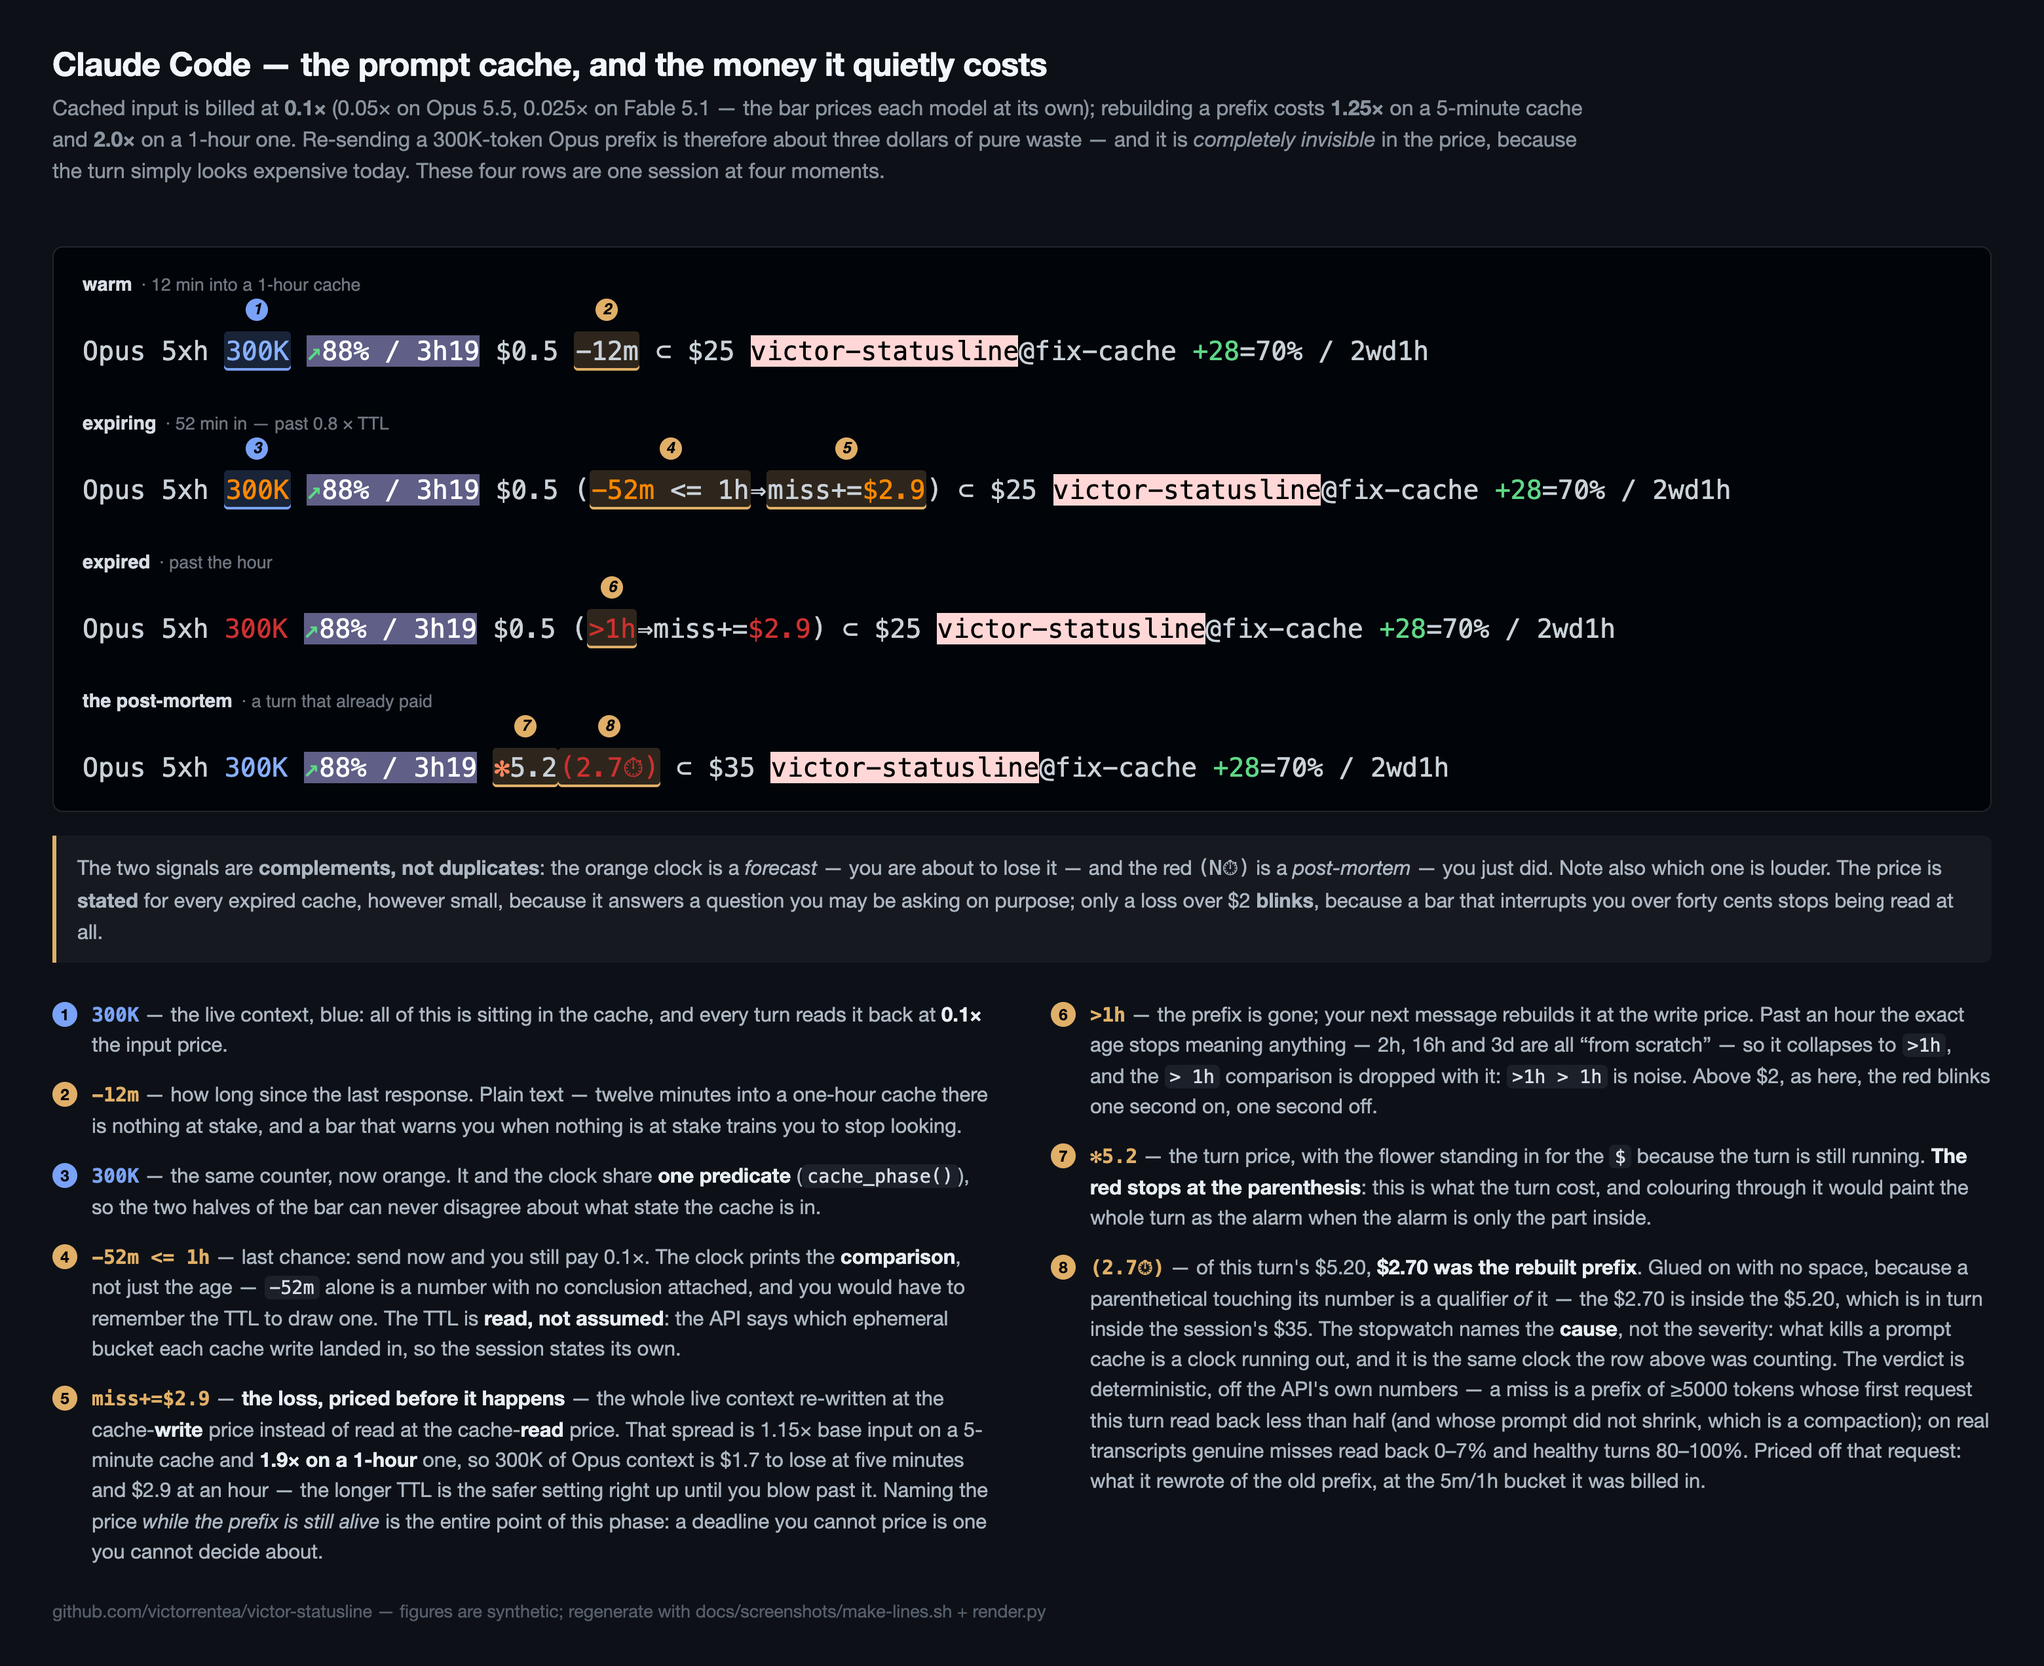
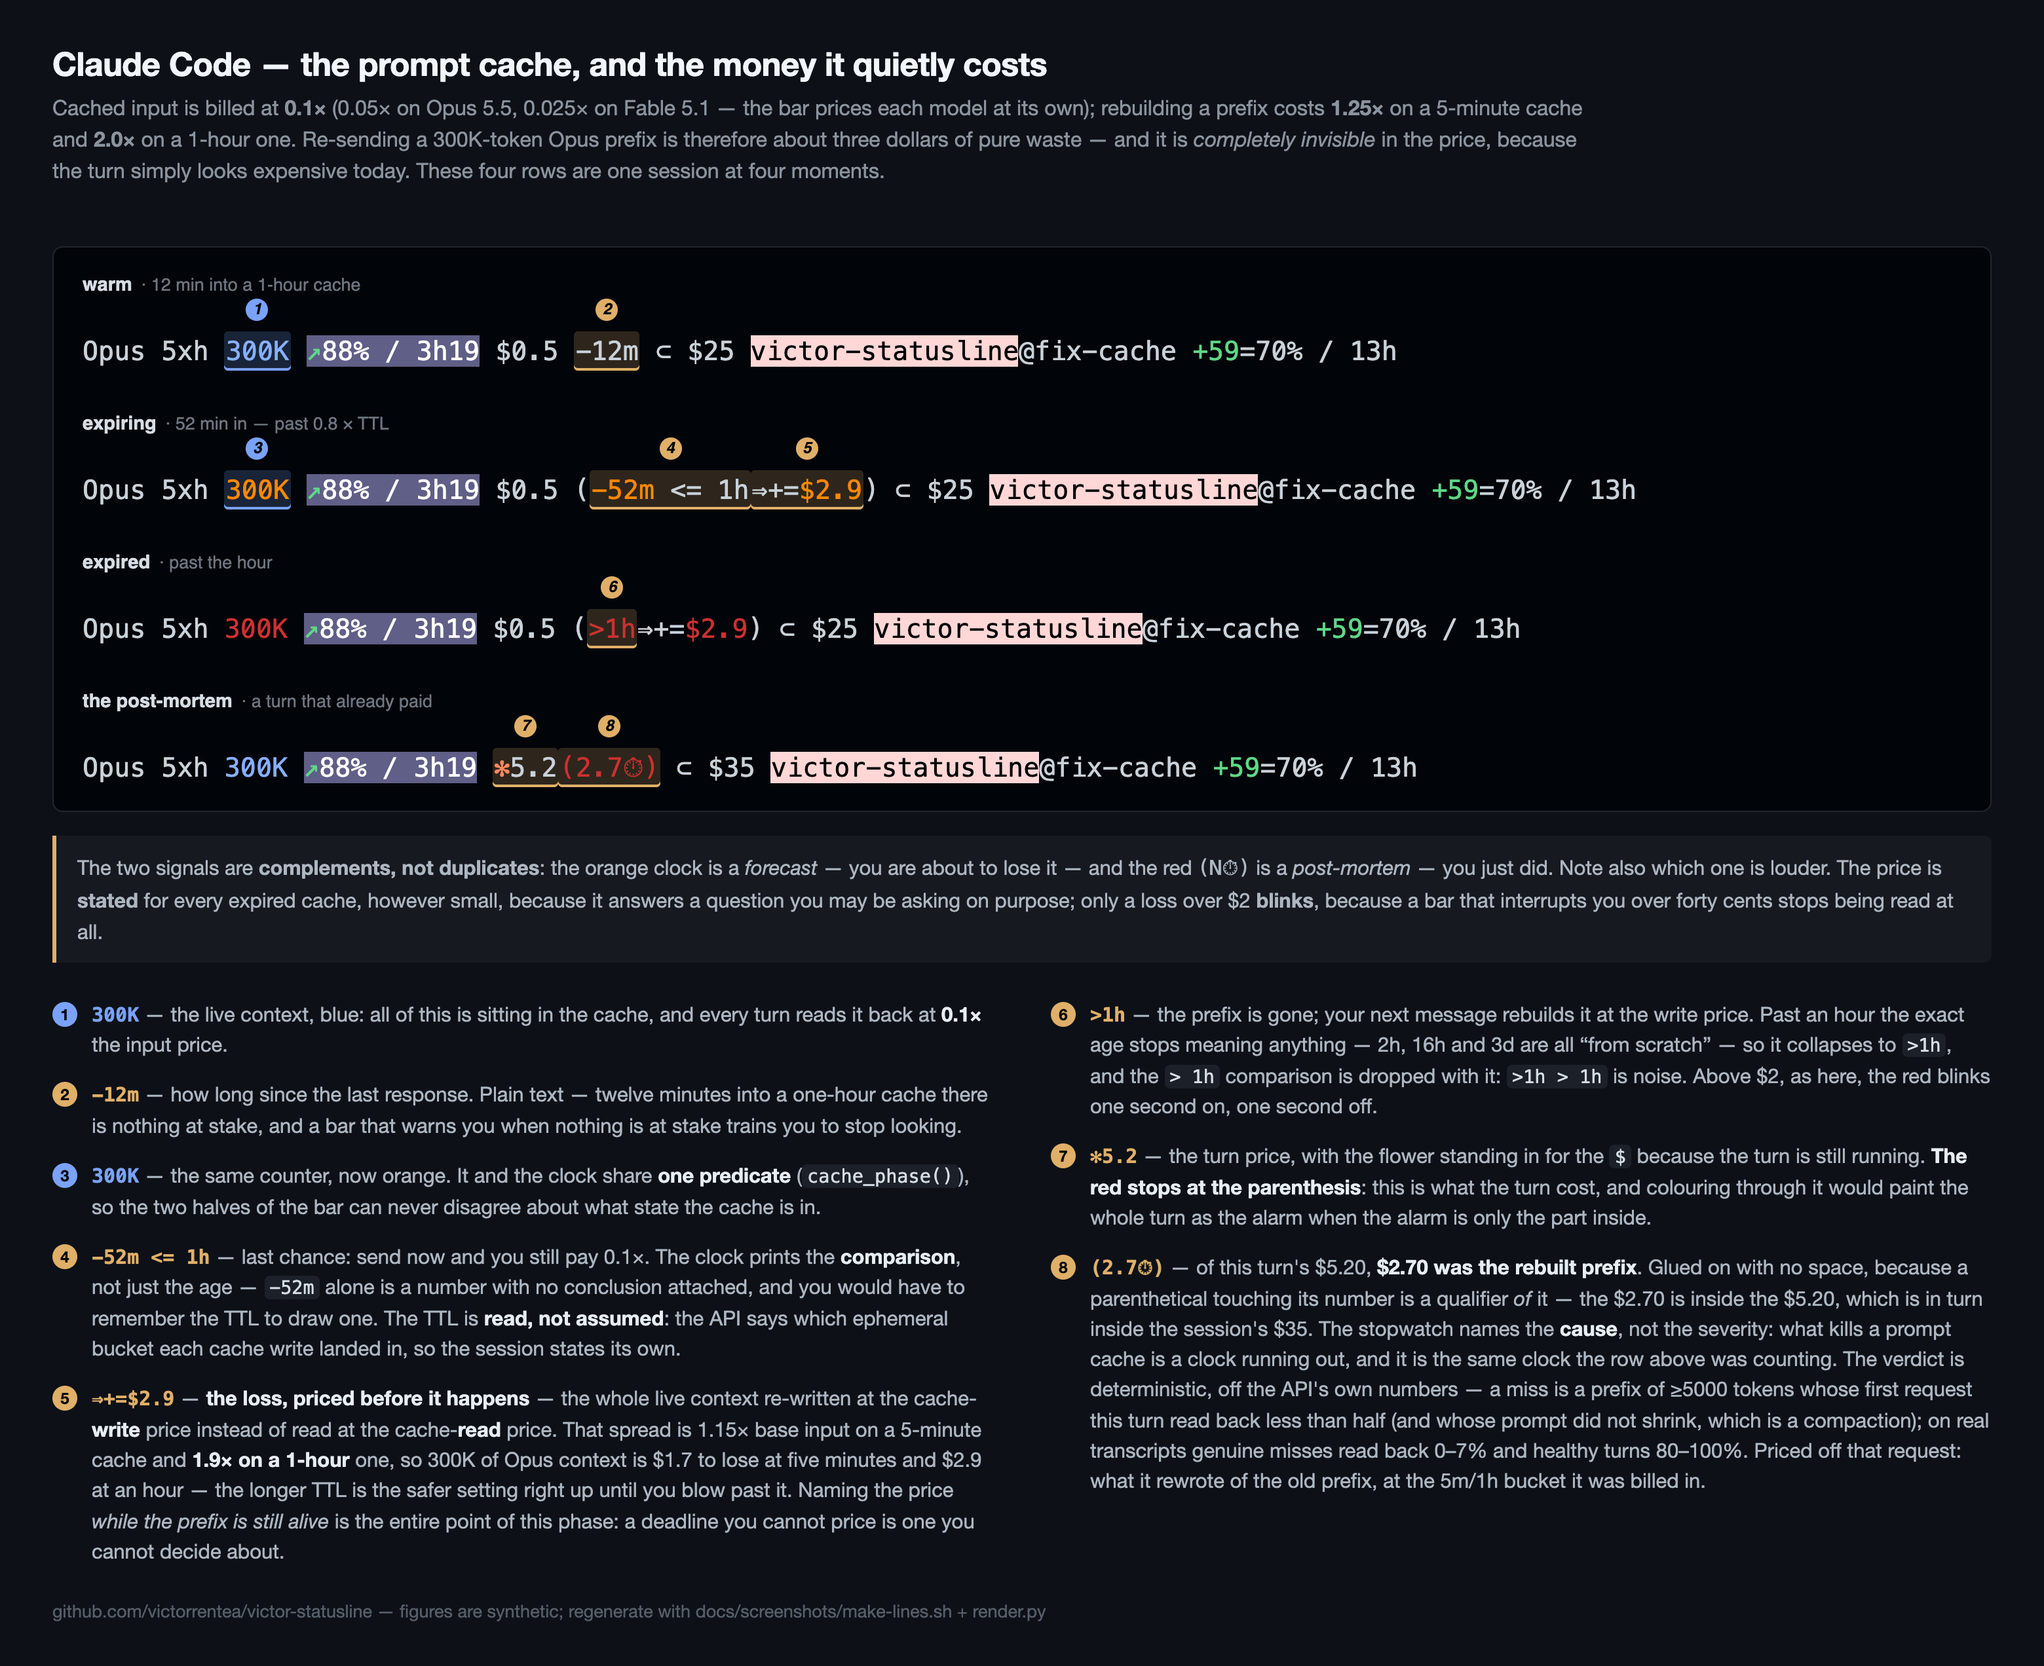
Cache clock: drop the word "miss" from (>1h⇒miss+=$…)
The age past the TTL, the arrow and the added price already say it; the word
only widened the clause. Tests, render regex, doc and screenshots follow.

diff --git a/docs/screenshots/render.py b/docs/screenshots/render.py
@@ -267,7 +267,7 @@ SPECS = [
                       "remember the TTL to draw one. The TTL is <b>read, not assumed</b>: "
                       "the API says which ephemeral bucket each cache write landed in, "
                       "so the session states its own."),
-                     (r"miss\+=\$[\d.]+", "spend",
+                     (r"⇒\+=\$[\d.]+", "spend",
                       "<b>the loss, priced before it happens</b> — the whole live "
                       "context re-written at the cache-<b>write</b> price instead of "
                       "read at the cache-<b>read</b> price. That spread is 1.15× base "

diff --git a/claude/victor-claude-statusline.md b/claude/victor-claude-statusline.md
@@ -55,14 +55,14 @@ Idle long enough that the prompt cache is gone. The loss is priced either way;
 what changes with the amount is whether it moves. Below $2 it just sits there:
 
 ```
-Opus 5h 170K | ↑87% / 1h41 | $7.8 (>1h⇒miss+=$1.6) ⊂ $10 | ai | +15=82% / 3wd8h
+Opus 5h 170K | ↑87% / 1h41 | $7.8 (>1h⇒+=$1.6) ⊂ $10 | ai | +15=82% / 3wd8h
 ```
 
 Above $2, `220K`, `>1h` and `$2.1` **blink red** in unison, one second on, one
 second off (§1.1); everything else holds still:
 
 ```
-Opus 5h 220K | ↑87% / 1h42 | $1.5 (>1h⇒miss+=$2.1) ⊂ $23 | ai | +15=82% / 3wd8h
+Opus 5h 220K | ↑87% / 1h42 | $1.5 (>1h⇒+=$2.1) ⊂ $23 | ai | +15=82% / 3wd8h
 ```
 
 Five-hour quota nearly exhausted and confirmed by the account: `quota-gate.sh`
@@ -207,7 +207,7 @@ priority order:
 | it is **about to expire** (idle ≥ 0.8 × TTL) | orange / normal |
 | context is simply **enormous** (> 300K tokens) | red, **static** — on Opus/Fable **orange** > 300K, red only **≥ 650K** |
 
-The first two **also blink the `-N` clock and its `miss+=$…` price**, in the
+The first two **also blink the `-N` clock and its `+=$…` price**, in the
 same colour on the same beat, and that pairing is the entire point: the clock
 says how much time the cache has left, the token count says how much that cache
 is *worth*, and the price says it in money. Each alone answers a fraction of "is
@@ -235,15 +235,15 @@ Two deliberate choices:
   terminal's own contrast instead of white-on-dark-red, and on the off-beat the
   text is simply *normal* — fully legible half the time by construction, so the
   figure never has to be read through the alarm.
-- **Only the variables blink.** In `(-51m > 5m⇒miss+=$1.7)`, the parts that
-  move are `-51m` and `$1.7`. The scaffolding around them (`> 5m`, `⇒miss+=`)
+- **Only the variables blink.** In `(-51m > 5m⇒+=$1.7)`, the parts that
+  move are `-51m` and `$1.7`. The scaffolding around them (`> 5m`, `⇒+=`)
   says how to read those two figures and holds still; blinking it too
   just widened the flashing block into a bar of moving text you had to wait out.
 
 ### Reporting and alarming are two different thresholds
 
 The **price is always reported**. Every expired or expiring cache prints its
-`(…⇒miss+=$…)`, at any size, because that figure answers a question you may be
+`(…⇒+=$…)`, at any size, because that figure answers a question you may be
 asking on purpose — *what did stepping away just cost me?* — and a number
 withheld below an arbitrary line makes the bar useless for checking.
 
@@ -252,15 +252,15 @@ would cost more than **$2** (`CLAUDE_MISS_FLOOR` to change it). So a cheap miss
 sits there in plain text and a dear one starts moving:
 
 ```
-… | $7.8 (>1h⇒miss+=$1.4) ⊂ $10 | …    ← states the loss, stays still
-… | $7.8 (>1h⇒miss+=$2.1) ⊂ $10 | …    ← ">1h" and "$2.1" blink red
+… | $7.8 (>1h⇒+=$1.4) ⊂ $10 | …    ← states the loss, stays still
+… | $7.8 (>1h⇒+=$2.1) ⊂ $10 | …    ← ">1h" and "$2.1" blink red
 ```
 
 The alarm threshold used to be a flat 100K tokens, which is the wrong unit: what
 makes a miss worth interrupting you over is the **money**, and the same 100K on a
 1h TTL is ~19c of Haiku and ~78c of Opus 5.5. It is the *same* figure the bar is
 already printing, so the rule explains itself on screen — you see a blinking
-`⇒miss+=$2.1` beside a still `⇒miss+=$1.4` and the reason is the number itself,
+`⇒+=$2.1` beside a still `⇒+=$1.4` and the reason is the number itself,
 not a token count you would have to convert in your head.
 
 `cache_phase()` therefore knows nothing about money — it answers a pure question
@@ -839,7 +839,7 @@ quantity, a piece of the same money.
   timeline already uses. In a bar where every other cell is a number, a lone
   English word was the only thing asking to be *read* rather than seen — and it
   spent three cells in the one segment that also has to fit a price
-  (`$7.8 (-51m > 5m⇒miss+=$2.1) ⊂ $10` is tight enough already). `>1h` keeps its
+  (`$7.8 (-51m > 5m⇒+=$2.1) ⊂ $10` is tight enough already). `>1h` keeps its
   own shape: the `>` points the same direction the minus would, and `->1h` would
   stack two symbols onto one meaning.
 
@@ -1019,9 +1019,9 @@ blink only above **$2** — see §1.1):
 | Age since the last turn | Rendering | Meaning |
 |-------------------------|-----------|---------|
 | `< 0.8 × TTL` | plain, `-12m` | prefix is warm — no price, nothing at stake |
-| `0.8 × TTL … TTL` | orange, `(-48m <= 1h⇒miss+=$2.1)` | last chance — send now and you still pay 0.1× |
-| `≥ TTL` | red, `(-51m > 5m⇒miss+=$2.1)` | prefix is gone; your next message rebuilds it at the write price |
-| `≥ 1 h` | red, `(>1h⇒miss+=$2.1)` | as above, and the exact age no longer matters |
+| `0.8 × TTL … TTL` | orange, `(-48m <= 1h⇒+=$2.1)` | last chance — send now and you still pay 0.1× |
+| `≥ TTL` | red, `(-51m > 5m⇒+=$2.1)` | prefix is gone; your next message rebuilds it at the write price |
+| `≥ 1 h` | red, `(>1h⇒+=$2.1)` | as above, and the exact age no longer matters |
 
 The colour **blinks** on/off in the bottom three rows only when the price clears
 $2; below that the same text is rendered once, in the terminal's normal colour.
@@ -1052,7 +1052,7 @@ decided about and the gap between `41m` and `58m` is the gap between "later" and
 "now".
 
 **And it prices the loss — in the orange phase too, not just past the TTL.**
-`miss+=$2.1` is the context re-written at the cache-**write** price instead of
+`+=$2.1` is the context re-written at the cache-**write** price instead of
 read at the cache-**read** price — the spread between the two multipliers, at the
 model's own input rate (Opus 5.5 $4/MTok, Opus 5 and 4.x $5, Sonnet 5.x $2,
 Sonnet 4.x $3, Haiku $1, Fable $10) and its own read multiplier. The tokens are
@@ -1738,7 +1738,7 @@ that every status line writes (~1×/sec) and reads back, for **both** windows:
   before it, red once past it. That predicate is deliberately **money-blind** — it
   answers a question about time only — and a second predicate, `miss_big()`,
   decides whether the state is worth *blinking* about (uncached re-send > **$2**,
-  the same figure the bar prints as `⇒miss+=$2.1`). Splitting them is what lets
+  the same figure the bar prints as `⇒+=$2.1`). Splitting them is what lets
   the clock report a cheap miss in plain text instead of having to choose between
   shouting and staying silent; gating the alarm on money rather than tokens means
   the threshold means the same thing on Haiku as on Opus, and the reason for the
@@ -2042,6 +2042,31 @@ TEAL="${ESC}[38;5;80m"
 # unverified, without borrowing the meaning of orange/red (which mean "low").
 GREY="${ESC}[38;5;244m"
 
+# --- Light page -------------------------------------------------------------
+# The Claude theme is `custom:follow-macos`, whose `base` Victor Addons flips
+# with the macOS appearance, and session-color.sh repaints the Claude tabs with
+# it: #2e3440 polar night in dark mode, #eceff4 snow storm in light mode. Every
+# colour above was tuned on the dark tint — 111/78/80 are pale enough to vanish
+# on the light one, and the quota and folder chips turn into heavy dark blocks.
+# So on a light page the text colours drop to their deep counterparts and every
+# chip becomes a pastel ground under black text. Read from the theme file, not
+# from `defaults`: a builtin read instead of a fork per render, and it is the
+# exact switch Claude itself is following. CLAUDE_STATUSLINE_LIGHT=0/1 overrides.
+LIGHT_UI="${CLAUDE_STATUSLINE_LIGHT:-}"
+if [ -z "$LIGHT_UI" ]; then
+  LIGHT_UI=0
+  _theme_json=''
+  [ -r "$HOME/.claude/themes/follow-macos.json" ] \
+    && read -r _theme_json < "$HOME/.claude/themes/follow-macos.json" 2>/dev/null
+  case "$_theme_json" in *'"base": "light"'*) LIGHT_UI=1 ;; esac
+fi
+if [ "$LIGHT_UI" = 1 ]; then
+  ORANGE="${ESC}[38;5;166m"
+  BLUE="${ESC}[38;5;25m"
+  GREEN="${ESC}[38;5;28m"
+  TEAL="${ESC}[38;5;30m"
+fi
+
 # --- Bloom ramp: the five brightness steps the running turn's cost breathes
 # through, in step with the flower's own bloom (see the $((now % 9)) case below).
 # The clay/salmon family, because that is what Claude Code paints "Working…" in
@@ -2266,6 +2291,18 @@ if [ -n "$five" ]; then
   QORANGE="${_qb}${ESC}[38;5;208m"
   QRED="${_qb}${ESC}[38;5;203m"
   QGREY="${_qb}${ESC}[38;5;248m"
+  # Light page: the same three states as pastels — lavender 189 (calm), peach
+  # 223 (<15%), pink 217 (<5%) — under black text, with the arrow hues deepened
+  # to stay legible on a pale ground.
+  if [ "$LIGHT_UI" = 1 ]; then
+    case "$_qbg" in 88) _qbg=217 ;; 94) _qbg=223 ;; *) _qbg=189 ;; esac
+    _qb="${ESC}[48;5;${_qbg}m"
+    QCHIP="${_qb}${ESC}[38;5;16m"
+    QGREEN="${_qb}${ESC}[38;5;28m"
+    QORANGE="${_qb}${ESC}[38;5;166m"
+    QRED="${_qb}${ESC}[38;5;160m"
+    QGREY="${_qb}${ESC}[38;5;242m"
+  fi
   ind=""
   dur=""
   until_time=""
@@ -2470,7 +2507,7 @@ fmt_age() {
   # Say WHY it is blinking, in the terms the reader would otherwise have to
   # supply from memory: the idle time, the TTL it is measured against, and what
   # crossing it costs. "-51m" alone is a number with no verdict attached —
-  # "(-51m > 5m⇒miss+=$1.7)" is the verdict, and it is also the one form that
+  # "(-51m > 5m⇒+=$1.7)" is the verdict, and it is also the one form that
   # survives the TTL being 1h instead of 5m without silently changing meaning.
   #
   # The whole clause sits INSIDE one pair of brackets because it is one
@@ -2482,9 +2519,12 @@ fmt_age() {
   # next message ADDS on top of the turn price to its left, not a second total
   # competing with it. Bracketing the pair also stops the price from floating
   # loose next to the "⊂ $10" that follows and reading as part of the budget.
+  # The word "miss" used to sit between "⇒" and "+=" and was dropped (2 Oct 2026):
+  # an age past the TTL, an arrow and an added price already say it, and the
+  # word only made the clause wider.
   #
   # Only the two VARIABLES blink — the elapsed time and the price. The words
-  # around them ("> 5m", "⇒miss+=") are fixed scaffolding that says how to
+  # around them ("> 5m", "⇒+=") are fixed scaffolding that says how to
   # read those two figures, and blinking them too just widened the flashing block
   # until it was a bar of moving text you had to wait out to read. Held steady,
   # they stay legible during the off-beat and the eye lands straight on whichever
@@ -2495,7 +2535,7 @@ fmt_age() {
   # may be asking on purpose ("what did stepping away just cost me?") and a number
   # withheld below an arbitrary line is a bar you cannot use to check. The BLINK is
   # reserved for the ones worth interrupting you over ($MISS_FLOOR). So a cheap
-  # miss prints "(-51m > 5m⇒miss+=$1.4)" in plain text and stays out of the way,
+  # miss prints "(-51m > 5m⇒+=$1.4)" in plain text and stays out of the way,
   # and only a dear one starts moving.
   _phase=$(cache_phase "$_secs")
   case "$_phase" in
@@ -2514,10 +2554,10 @@ fmt_age() {
   if [ "$_price" = '$0.0' ]; then
     printf ' %s%s' "$_rel" "$_cmp"
   elif miss_big; then
-    printf ' (%s%s⇒miss+=%s)' \
+    printf ' (%s%s⇒+=%s)' \
       "$(pulse "$_hue" "$_rel")" "$_cmp" "$(pulse "$_hue" "$_price")"
   else
-    printf ' (%s%s⇒miss+=%s)' "$_rel" "$_cmp" "$_price"
+    printf ' (%s%s⇒+=%s)' "$_rel" "$_cmp" "$_price"
   fi
 }
 
@@ -2593,7 +2633,7 @@ trunc1() { awk -v v="${1:-0}" 'BEGIN{ printf "%.1f", int(v*10 + 1e-9)/10 }'; }
 # which is the wrong unit: what makes a miss worth interrupting you over is the
 # MONEY, and the same 100K on a 1h TTL is ~19c of Haiku and ~78c of Opus 5.5.
 # Testing the dollar figure the bar is about to print also makes the rule
-# self-evident on screen — you see "⇒miss+=$2.1" blinking next to a "⇒miss+=$1.4"
+# self-evident on screen — you see "⇒+=$2.1" blinking next to a "⇒+=$1.4"
 # that does not, and the reason is the number itself, not a token count you would
 # have to convert. Raise the floor if the bar still interrupts too eagerly:
 #   export CLAUDE_MISS_FLOOR=5
@@ -3448,6 +3488,13 @@ esac
 #
 # Each entry is background:foreground.
 FOLDER_CHIPS='25:231 61:231 91:231 126:231 28:231 30:231 100:231 130:231 19:231 88:231 223:16 194:16 189:16 224:16 230:16 195:16 217:16 186:16 183:16 252:16'
+# Light page: every slot becomes a pastel under black text, position by position,
+# so a folder keeps its hue family across the flip (25 blue -> 153 pale blue, 28
+# green -> 157 pale green, ...). The near-whites of the dark palette (230, 195,
+# 252) each step one shade deeper, or they would melt into #eceff4.
+if [ "$LIGHT_UI" = 1 ]; then
+  FOLDER_CHIPS='153:16 147:16 219:16 218:16 157:16 158:16 229:16 222:16 117:16 181:16 223:16 194:16 189:16 224:16 187:16 159:16 217:16 186:16 183:16 250:16'
+fi
 
 # The hash costs a fork and this bar re-renders every second in every open
 # session — the exact shape of load that once made the whole machine feel slow.
